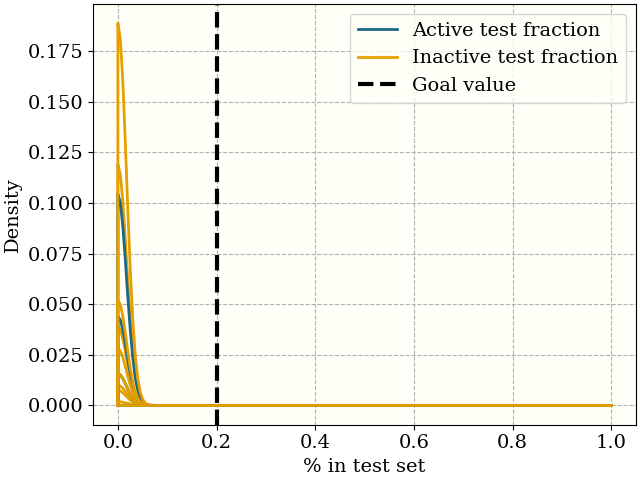
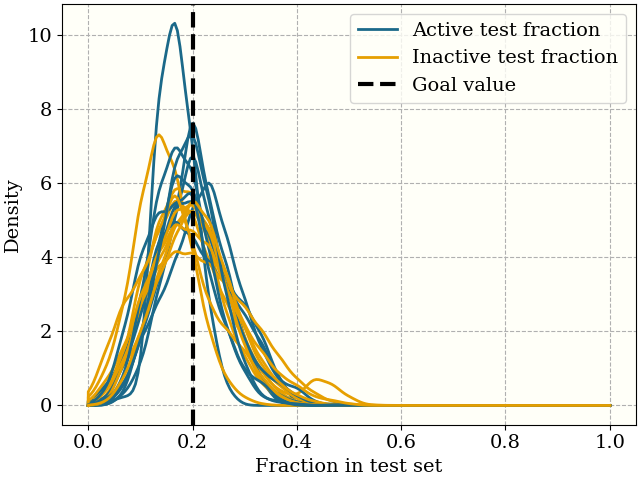
fig update

diff --git a/code/test_set_occupancy.py b/code/test_set_occupancy.py
@@ -70,8 +70,8 @@ for idx in range(10):
             neg_test_counts[i] +=1
 
 
-    pos_frac = np.array(list(pos_test_counts.values()))/30 * 100
-    neg_frac = np.array(list(neg_test_counts.values()))/30 * 100
+    pos_frac = np.array(list(pos_test_counts.values()))/30 
+    neg_frac = np.array(list(neg_test_counts.values()))/30 
     
     positive_fractions.append(pos_frac)
     negative_fractions.append(neg_frac)
@@ -97,7 +97,7 @@ for a,b in zip(positive_fractions, negative_fractions):
     count+=1
     
 ax.grid()
-ax.set_xlabel('% in test set')
+ax.set_xlabel('Fraction in test set')
 ax.set_ylabel('Density')
 ax.axvline(0.2, linestyle='--', c='k', label='Goal value')
 ax.legend()
